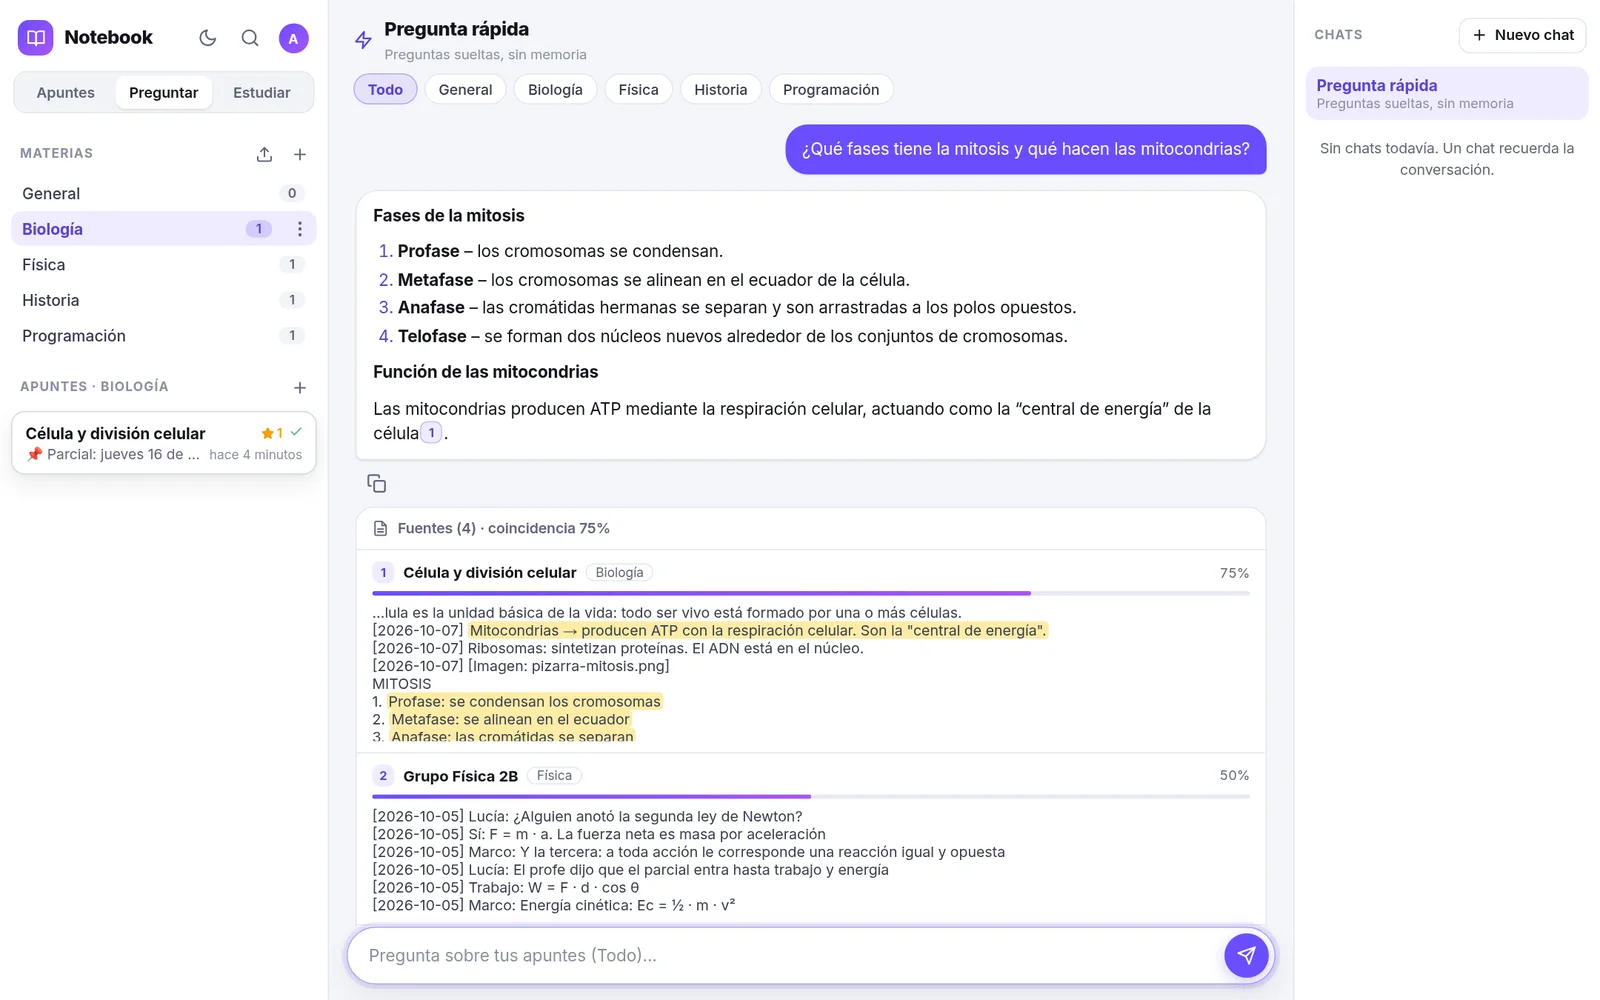
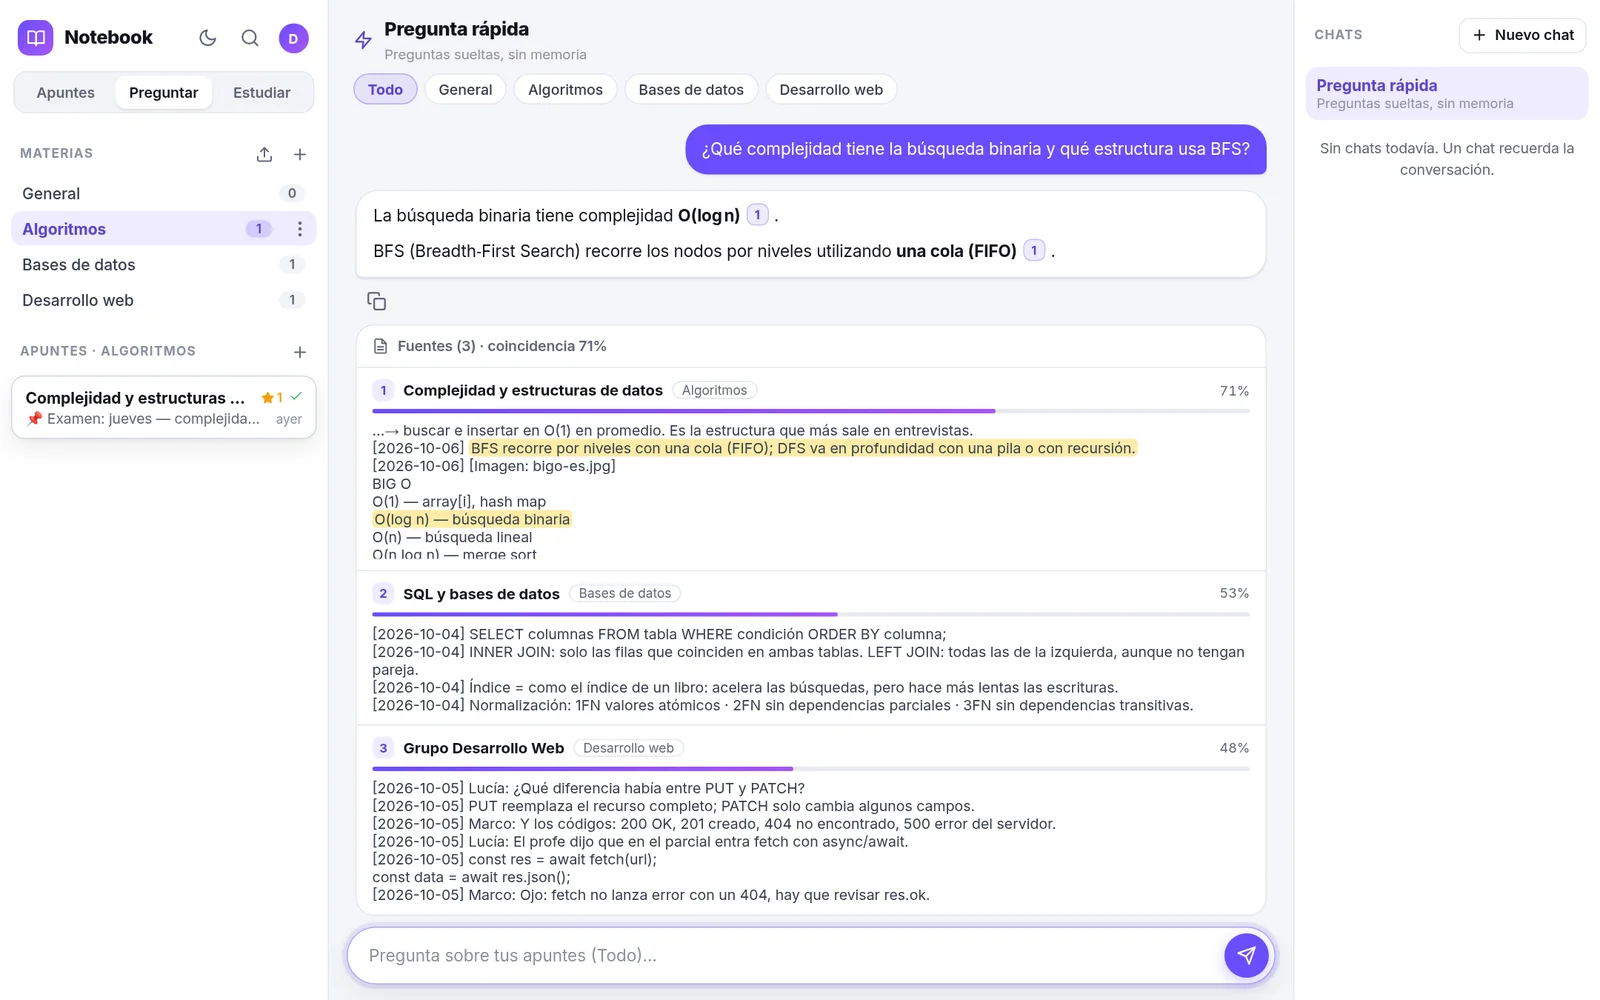
Demo y capturas con apuntes de programación
La demo ahora trae Algoritmos (complejidad y estructuras de datos, con la
pizarra de Big O, flashcards y quiz), Bases de datos (SQL) y un grupo de
Desarrollo Web (HTTP, fetch y async/await), en español e inglés. Capturas
de la landing, del README y la imagen para redes rehechas con esos datos.

Claude-Session: https://claude.ai/code/session_011hkeCefx4v4QCBrLcpAP2h

diff --git a/lib/demo.js b/lib/demo.js
@@ -138,7 +138,7 @@ function seed(userId, data) {
       if (m.image) {
         const stored = path.join(IMG_DIR, `${Date.now()}-${randomBytes(6).toString('hex')}.jpg`);
         copyFileSync(path.join(ROOT, 'lib', 'demo', m.image.file), stored);
-        const imageId = Number(insImg.run(noteId, userId, m.image.file, stored, m.image.ocr, m.image.description).lastInsertRowid);
+        const imageId = Number(insImg.run(noteId, userId, m.image.name || m.image.file, stored, m.image.ocr, m.image.description).lastInsertRowid);
         insMsg.run(noteId, userId, 'image', '', m.sender || null, 0, n.ago, mins, imageId);
       } else {
         insMsg.run(noteId, userId, 'text', m.text, m.sender || null, m.star ? 1 : 0, n.ago, mins, null);
@@ -154,61 +154,61 @@ function seed(userId, data) {
 
 const SEED = {
   es: {
-    subjects: ['Biología', 'Física', 'Historia'],
+    subjects: ['Algoritmos', 'Bases de datos', 'Desarrollo web'],
     notes: [
       {
-        subject: 'Historia', title: 'Revolución francesa', ago: '-3 days',
+        subject: 'Bases de datos', title: 'SQL y bases de datos', ago: '-3 days',
         messages: [
-          { text: 'Causas: crisis económica, deuda del Estado y desigualdad entre los tres estamentos.' },
-          { text: '14 de julio de 1789: toma de la Bastilla.', star: true },
-          { text: 'Declaración de los Derechos del Hombre y del Ciudadano: agosto de 1789.' },
-          { text: 'Fases: monarquía constitucional → república (1792) → el Terror (1793-94) → Directorio → Napoleón (1799).' },
+          { text: 'SELECT columnas FROM tabla WHERE condición ORDER BY columna;' },
+          { text: 'INNER JOIN: solo las filas que coinciden en ambas tablas. LEFT JOIN: todas las de la izquierda, aunque no tengan pareja.', star: true },
+          { text: 'Índice = como el índice de un libro: acelera las búsquedas, pero hace más lentas las escrituras.' },
+          { text: 'Normalización: 1FN valores atómicos · 2FN sin dependencias parciales · 3FN sin dependencias transitivas.' },
         ],
       },
       {
-        subject: 'Física', title: 'Grupo Física 2B', ago: '-2 days',
+        subject: 'Desarrollo web', title: 'Grupo Desarrollo Web', ago: '-2 days',
         messages: [
-          { sender: 'Lucía', text: '¿Alguien anotó la segunda ley de Newton?' },
-          { text: 'Sí: F = m · a. La fuerza neta es masa por aceleración.' },
-          { sender: 'Marco', text: 'Y la tercera: a toda acción le corresponde una reacción igual y opuesta.' },
-          { sender: 'Lucía', text: 'El profe dijo que el parcial entra hasta trabajo y energía.' },
-          { text: 'Trabajo: W = F · d · cos θ' },
-          { sender: 'Marco', text: 'Energía cinética: Ec = ½ · m · v²' },
+          { sender: 'Lucía', text: '¿Qué diferencia había entre PUT y PATCH?' },
+          { text: 'PUT reemplaza el recurso completo; PATCH solo cambia algunos campos.' },
+          { sender: 'Marco', text: 'Y los códigos: 200 OK, 201 creado, 404 no encontrado, 500 error del servidor.' },
+          { sender: 'Lucía', text: 'El profe dijo que en el parcial entra fetch con async/await.' },
+          { text: 'const res = await fetch(url);\nconst data = await res.json();' },
+          { sender: 'Marco', text: 'Ojo: fetch no lanza error con un 404, hay que revisar res.ok.' },
         ],
       },
       {
-        subject: 'Biología', title: 'Célula y división celular', ago: '-1 days',
+        subject: 'Algoritmos', title: 'Complejidad y estructuras de datos', ago: '-1 days',
         messages: [
-          { text: 'La célula es la unidad básica de la vida: todo ser vivo está formado por una o más células.' },
-          { text: 'Mitocondrias → producen ATP con la respiración celular. Son la "central de energía".', star: true },
-          { text: 'Ribosomas: sintetizan proteínas. El ADN está en el núcleo.' },
+          { text: 'Big O mide cómo crece el tiempo (o la memoria) de un algoritmo cuando crece la entrada n.' },
+          { text: 'Hash map → buscar e insertar en O(1) en promedio. Es la estructura que más sale en entrevistas.', star: true },
+          { text: 'BFS recorre por niveles con una cola (FIFO); DFS va en profundidad con una pila o con recursión.' },
           {
             image: {
-              file: 'mitosis-es.jpg',
-              ocr: 'MITOSIS\n1. Profase: se condensan los cromosomas\n2. Metafase: se alinean en el ecuador\n3. Anafase: las cromátidas se separan\n4. Telofase: se forman 2 núcleos\nResultado: 2 células hijas idénticas (2n)',
-              description: 'Foto de la pizarra con las 4 fases de la mitosis.',
+              file: 'bigo-es.jpg', name: 'pizarra-big-o.jpg',
+              ocr: 'BIG O\nO(1) — array[i], hash map\nO(log n) — búsqueda binaria\nO(n) — búsqueda lineal\nO(n log n) — merge sort\nO(n²) — bubble sort, 2 bucles anidados\nRegla: quitar constantes, quedarse con el mayor',
+              description: 'Foto de la pizarra con una tabla de complejidades Big O y ejemplos de cada una.',
             },
           },
-          { text: 'Meiosis ≠ mitosis: la meiosis da 4 células con la mitad de cromosomas (n). Sirve para formar gametos.' },
-          { text: '📌 Parcial: jueves — entra todo el capítulo 3.' },
+          { text: 'Recursión: siempre un caso base; si no, stack overflow.' },
+          { text: '📌 Examen: jueves — complejidad, árboles y grafos.' },
         ],
         study: [
           {
-            kind: 'flashcards', title: 'Célula y división celular',
+            kind: 'flashcards', title: 'Complejidad y estructuras de datos',
             data: { cards: [
-              { q: '¿Qué producen las mitocondrias?', a: 'ATP, mediante la respiración celular.' },
-              { q: '¿Qué hacen los ribosomas?', a: 'Sintetizan proteínas.' },
-              { q: '¿Cuáles son las fases de la mitosis?', a: 'Profase, metafase, anafase y telofase.' },
-              { q: '¿Cuántas células da la meiosis?', a: '4 células con la mitad de cromosomas (n).' },
-              { q: '¿Dónde está el ADN?', a: 'En el núcleo.' },
+              { q: '¿Complejidad de buscar en un hash map?', a: 'O(1) en promedio.' },
+              { q: '¿Qué necesita la búsqueda binaria para funcionar?', a: 'Una lista ordenada. Es O(log n).' },
+              { q: '¿Qué complejidad tiene merge sort?', a: 'O(n log n).' },
+              { q: '¿Qué estructura usa BFS?', a: 'Una cola (FIFO). DFS usa una pila o recursión.' },
+              { q: '¿Qué le falta a una recursión que termina en stack overflow?', a: 'Un caso base.' },
             ] },
           },
           {
-            kind: 'quiz', title: 'Quiz: división celular',
+            kind: 'quiz', title: 'Quiz: complejidad',
             data: { questions: [
-              { q: '¿En qué fase de la mitosis se alinean los cromosomas en el ecuador?', options: ['Profase', 'Metafase', 'Anafase', 'Telofase'], answer: 1, explanation: 'Según la foto de la pizarra, en la metafase se alinean en el ecuador.' },
-              { q: '¿Qué resultado da la mitosis?', options: ['4 células n', '2 células hijas idénticas (2n)', '1 célula con el doble de ADN', '2 gametos'], answer: 1, explanation: 'La pizarra dice: 2 células hijas idénticas (2n).' },
-              { q: '¿Para qué sirve la meiosis?', options: ['Producir ATP', 'Sintetizar proteínas', 'Formar gametos', 'Reparar tejidos'], answer: 2, explanation: 'Los apuntes dicen que la meiosis sirve para formar gametos.' },
+              { q: '¿Qué complejidad tiene la búsqueda binaria?', options: ['O(1)', 'O(log n)', 'O(n)', 'O(n²)'], answer: 1, explanation: 'La foto de la pizarra la pone en O(log n).' },
+              { q: '¿Qué estructura usa BFS para recorrer un grafo?', options: ['Pila', 'Cola', 'Árbol binario', 'Hash map'], answer: 1, explanation: 'Los apuntes dicen que BFS recorre por niveles con una cola (FIFO).' },
+              { q: '¿Cuál conviene para ordenar un millón de datos?', options: ['Bubble sort', 'Merge sort', 'Búsqueda lineal', 'Dos bucles anidados'], answer: 1, explanation: 'Merge sort es O(n log n); bubble sort es O(n²).' },
             ] },
           },
         ],
@@ -216,61 +216,61 @@ const SEED = {
     ],
   },
   en: {
-    subjects: ['Biology', 'Physics', 'History'],
+    subjects: ['Algorithms', 'Databases', 'Web development'],
     notes: [
       {
-        subject: 'History', title: 'French Revolution', ago: '-3 days',
+        subject: 'Databases', title: 'SQL and databases', ago: '-3 days',
         messages: [
-          { text: 'Causes: economic crisis, state debt and inequality between the three estates.' },
-          { text: 'July 14, 1789: storming of the Bastille.', star: true },
-          { text: 'Declaration of the Rights of Man and of the Citizen: August 1789.' },
-          { text: 'Phases: constitutional monarchy → republic (1792) → the Terror (1793-94) → Directory → Napoleon (1799).' },
+          { text: 'SELECT columns FROM table WHERE condition ORDER BY column;' },
+          { text: 'INNER JOIN: only rows that match in both tables. LEFT JOIN: every row on the left, even without a match.', star: true },
+          { text: 'An index is like a book index: faster reads, slower writes.' },
+          { text: 'Normalization: 1NF atomic values · 2NF no partial dependencies · 3NF no transitive dependencies.' },
         ],
       },
       {
-        subject: 'Physics', title: 'Physics group 2B', ago: '-2 days',
+        subject: 'Web development', title: 'Web dev group', ago: '-2 days',
         messages: [
-          { sender: 'Lucy', text: 'Did anyone write down Newton\'s second law?' },
-          { text: 'Yes: F = m · a. Net force equals mass times acceleration.' },
-          { sender: 'Mark', text: 'And the third: every action has an equal and opposite reaction.' },
-          { sender: 'Lucy', text: 'The teacher said the midterm goes up to work and energy.' },
-          { text: 'Work: W = F · d · cos θ' },
-          { sender: 'Mark', text: 'Kinetic energy: KE = ½ · m · v²' },
+          { sender: 'Lucy', text: 'What was the difference between PUT and PATCH?' },
+          { text: 'PUT replaces the whole resource; PATCH only changes some fields.' },
+          { sender: 'Mark', text: 'And the codes: 200 OK, 201 created, 404 not found, 500 server error.' },
+          { sender: 'Lucy', text: 'The teacher said fetch with async/await is on the midterm.' },
+          { text: 'const res = await fetch(url);\nconst data = await res.json();' },
+          { sender: 'Mark', text: 'Careful: fetch does not throw on a 404, you have to check res.ok.' },
         ],
       },
       {
-        subject: 'Biology', title: 'Cells and cell division', ago: '-1 days',
+        subject: 'Algorithms', title: 'Complexity and data structures', ago: '-1 days',
         messages: [
-          { text: 'The cell is the basic unit of life: every living thing is made of one or more cells.' },
-          { text: 'Mitochondria → produce ATP through cellular respiration. The cell\'s "power plant".', star: true },
-          { text: 'Ribosomes synthesize proteins. DNA is in the nucleus.' },
+          { text: 'Big O describes how an algorithm\'s time (or memory) grows as the input n grows.' },
+          { text: 'Hash map → lookup and insert in O(1) on average. The most common structure in interviews.', star: true },
+          { text: 'BFS goes level by level with a queue (FIFO); DFS goes deep with a stack or recursion.' },
           {
             image: {
-              file: 'mitosis-en.jpg',
-              ocr: 'MITOSIS\n1. Prophase: chromosomes condense\n2. Metaphase: they line up at the equator\n3. Anaphase: chromatids separate\n4. Telophase: 2 nuclei form\nResult: 2 identical daughter cells (2n)',
-              description: 'Photo of the whiteboard with the 4 phases of mitosis.',
+              file: 'bigo-en.jpg', name: 'whiteboard-big-o.jpg',
+              ocr: 'BIG O\nO(1) — array[i], hash map\nO(log n) — binary search\nO(n) — linear search\nO(n log n) — merge sort\nO(n²) — bubble sort, 2 nested loops\nRule: drop constants, keep the biggest term',
+              description: 'Photo of the whiteboard with a Big O complexity table and an example for each.',
             },
           },
-          { text: 'Meiosis ≠ mitosis: meiosis gives 4 cells with half the chromosomes (n). It makes gametes.' },
-          { text: '📌 Midterm: Thursday — all of chapter 3.' },
+          { text: 'Recursion: always a base case, otherwise stack overflow.' },
+          { text: '📌 Exam: Thursday — complexity, trees and graphs.' },
         ],
         study: [
           {
-            kind: 'flashcards', title: 'Cells and cell division',
+            kind: 'flashcards', title: 'Complexity and data structures',
             data: { cards: [
-              { q: 'What do mitochondria produce?', a: 'ATP, through cellular respiration.' },
-              { q: 'What do ribosomes do?', a: 'They synthesize proteins.' },
-              { q: 'What are the phases of mitosis?', a: 'Prophase, metaphase, anaphase and telophase.' },
-              { q: 'How many cells does meiosis produce?', a: '4 cells with half the chromosomes (n).' },
-              { q: 'Where is DNA found?', a: 'In the nucleus.' },
+              { q: 'Time complexity of a hash map lookup?', a: 'O(1) on average.' },
+              { q: 'What does binary search need to work?', a: 'A sorted list. It is O(log n).' },
+              { q: 'What is the complexity of merge sort?', a: 'O(n log n).' },
+              { q: 'Which structure does BFS use?', a: 'A queue (FIFO). DFS uses a stack or recursion.' },
+              { q: 'What is missing in a recursion that ends in a stack overflow?', a: 'A base case.' },
             ] },
           },
           {
-            kind: 'quiz', title: 'Quiz: cell division',
+            kind: 'quiz', title: 'Quiz: complexity',
             data: { questions: [
-              { q: 'In which phase of mitosis do chromosomes line up at the equator?', options: ['Prophase', 'Metaphase', 'Anaphase', 'Telophase'], answer: 1, explanation: 'The whiteboard photo says they line up at the equator in metaphase.' },
-              { q: 'What is the result of mitosis?', options: ['4 cells (n)', '2 identical daughter cells (2n)', '1 cell with double DNA', '2 gametes'], answer: 1, explanation: 'The whiteboard says: 2 identical daughter cells (2n).' },
-              { q: 'What is meiosis for?', options: ['Producing ATP', 'Synthesizing proteins', 'Making gametes', 'Repairing tissue'], answer: 2, explanation: 'The notes say meiosis makes gametes.' },
+              { q: 'What is the complexity of binary search?', options: ['O(1)', 'O(log n)', 'O(n)', 'O(n²)'], answer: 1, explanation: 'The whiteboard photo lists it as O(log n).' },
+              { q: 'Which structure does BFS use to traverse a graph?', options: ['Stack', 'Queue', 'Binary tree', 'Hash map'], answer: 1, explanation: 'The notes say BFS goes level by level with a queue (FIFO).' },
+              { q: 'Which is better for sorting a million items?', options: ['Bubble sort', 'Merge sort', 'Linear search', 'Two nested loops'], answer: 1, explanation: 'Merge sort is O(n log n); bubble sort is O(n²).' },
             ] },
           },
         ],

diff --git a/test/demo.test.js b/test/demo.test.js
@@ -22,7 +22,7 @@ test('crear una demo: apuntes, flashcards y quiz de ejemplo, sesión de demo', a
   assert.equal(notes.length, 3);
   const study = (await d.get('/api/study')).data.sets;
   assert.deepEqual(study.map((s) => s.kind).sort(), ['flashcards', 'quiz']);
-  const bio = notes.find((n) => /Célula/.test(n.title));
+  const bio = notes.find((n) => /Complejidad/.test(n.title));
   const full = (await d.get(`/api/notes/${bio.id}`)).data.note;
   assert.equal(full.messages.find((m) => m.kind === 'image').status, 'done', 'la imagen viene ya leída (no gasta IA)');
   await app.jobs.indexIdle();
@@ -31,7 +31,7 @@ test('crear una demo: apuntes, flashcards y quiz de ejemplo, sesión de demo', a
 test('límites: preguntas, importar, contraseña y tamaño de mensajes', async () => {
   const d = client(app.base);
   await d.post('/api/demo', { lang: 'en' });
-  for (let i = 0; i < 8; i++) assert.equal((await ask(d, 'mitochondria ' + i)).status, 200);
+  for (let i = 0; i < 8; i++) assert.equal((await ask(d, 'binary search ' + i)).status, 200);
   const r = await ask(d, 'one more');
   assert.equal(r.status, 429);
   assert.equal(r.data.code, 'demo_limit');

diff --git a/public/sw.js b/public/sw.js
@@ -1,5 +1,5 @@
 // sw.js — Notebook PWA: red primero (siempre la versión nueva) y caché como respaldo sin conexión
-const CACHE = 'notebook-v5';
+const CACHE = 'notebook-v6';
 const CORE = [
   '/', '/index.html', '/style.css', '/manifest.webmanifest', '/icon-192.png', '/icon-512.png',
   '/js/main.js', '/js/core.js', '/js/i18n.js', '/js/shell.js', '/js/editor.js', '/js/ask.js', '/js/study.js',
